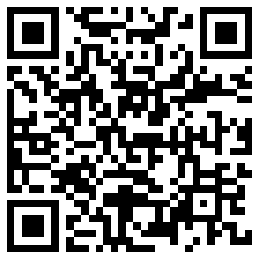
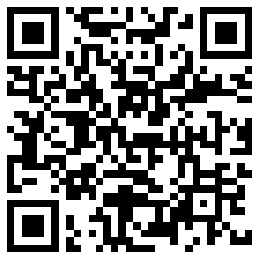
基于jackknife版本更新到4.10.36

diff --git a/README.md b/README.md
@@ -1,6 +1,6 @@
 ## JackKnife SDK官方使用案例 [![CircleCI](https://circleci.com/gh/JackWHLiu/jackknife_kotlin_samples.svg?style=shield)](https://circleci.com/gh/JackWHLiu/jackknife_kotlin_samples) [![Codacy Badge](https://api.codacy.com/project/badge/Grade/1a21d48d466644cdbcb57a1889abea5b)](https://www.codacy.com/app/JackWHLiu/jackknife_kotlin_samples?utm_source=github.com&amp;utm_medium=referral&amp;utm_content=JackWHLiu/jackknife_kotlin_samples&amp;utm_campaign=Badge_Grade)
 
-基于jackknife版本：4.10.34  https://github.com/JackWHLiu/jackknife
+基于jackknife版本：4.10.36  https://github.com/JackWHLiu/jackknife
 
 可使用开发模板 https://github.com/JackWHLiu/jackknife-mvvm-templates
 
@@ -8,7 +8,7 @@
 
 扫码下载
 
-| 扫码 or [点击下载](https://41-280676759-gh.circle-artifacts.com/0/apks/release/app-release.apk) |
+| 扫码 or [点击下载](https://49-280676759-gh.circle-artifacts.com/0/apks/release/app-release.apk) |
 | :----------------------------------------------------------: |
 | <img src="/qrcode/qrcode.png" alt="扫码下载体验" width="260px" /> |
 
